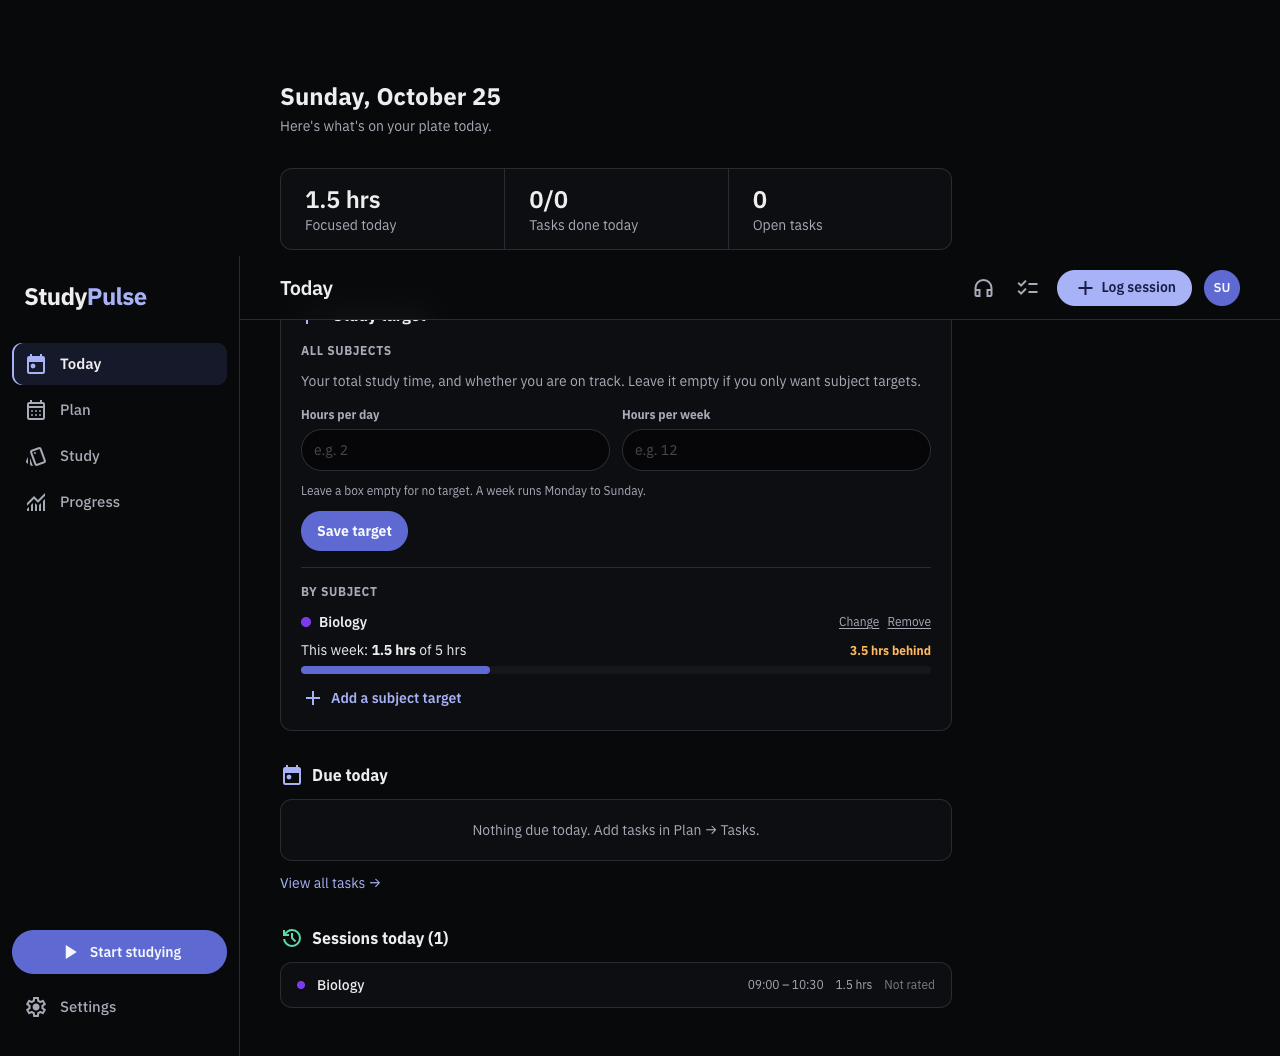
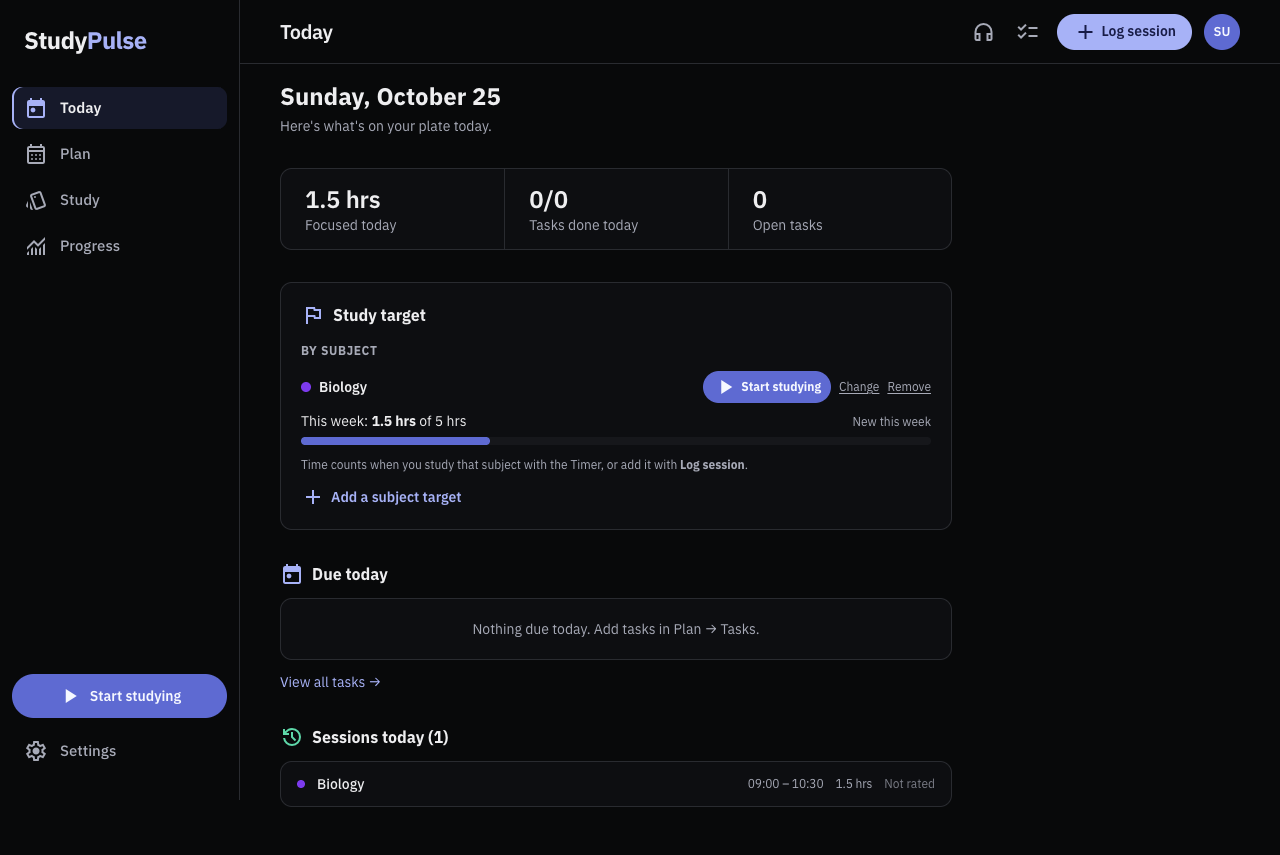
Subject targets: Start studying button; no "behind" in a target's first week
- Each subject target has a Start studying button that opens the Timer
  with that subject picked, and a line saying where the time comes from
  (Timer or Log session).
- A target remembers the day it was set (targetSince, or the subject's
  creation date). In the week it was set the card says "New this week"
  instead of "N hrs behind", which was unfair for a target set on a
  Sunday.

diff --git a/src/components/ui/StudyTarget.tsx b/src/components/ui/StudyTarget.tsx
@@ -4,7 +4,7 @@ import Link from "next/link";
 import { useStudyTargets } from "@/lib/firebase/useStudyTargets";
 import { useCollection } from "@/lib/firebase/useCollection";
 import { updateItem } from "@/lib/firebase/firestore";
-import { subjectTargets, targetProgress, type TargetProgress } from "@/lib/insights";
+import { subjectTargets, targetProgress, targetSince, type TargetProgress } from "@/lib/insights";
 import { getColor } from "@/lib/colorPalette";
 import { useNewSubject } from "@/components/ui/NewSubject";
 import { formatSmartDuration, localDateStr } from "@/lib/dateUtils";
@@ -77,8 +77,8 @@ function TargetRows({ p, compact }: { p: TargetProgress; compact?: boolean }) {
         <div className="flex flex-col gap-1.5" data-testid={compact ? undefined : "target-weekly-progress"}>
           <div className="flex items-baseline justify-between gap-2 text-sm">
             <span className="text-on-surface">This week: <b className="font-jetbrains">{formatSmartDuration(p.weekMinutes)}</b> of {formatSmartDuration(p.weekly.target)}</span>
-            <span data-testid={compact ? undefined : "target-on-track"} className={p.weekly.onTrack ? "text-secondary text-xs font-bold" : "text-tertiary text-xs font-bold"}>
-              {p.weekly.left === 0 ? "Week done" : p.weekly.onTrack ? "On track" : `${formatSmartDuration(p.weekly.expectedByToday - p.weekMinutes)} behind`}
+            <span data-testid={compact ? undefined : "target-on-track"} className={p.weekly.onTrack ? "text-secondary text-xs font-bold" : p.weekly.newThisWeek ? "text-on-surface-variant text-xs" : "text-tertiary text-xs font-bold"}>
+              {p.weekly.left === 0 ? "Week done" : p.weekly.onTrack ? "On track" : p.weekly.newThisWeek ? "New this week" : `${formatSmartDuration(p.weekly.expectedByToday - p.weekMinutes)} behind`}
             </span>
           </div>
           <Bar pct={p.weekly.pct} done={p.weekly.left === 0} />
@@ -93,7 +93,8 @@ export function TargetCard({ sessions }: { sessions: Session[] }) {
   const { daily, weekly, loaded } = useStudyTargets();
   const { items: subjects } = useCollection<Subject>("subjects");
   if (!loaded) return null;
-  const p = targetProgress(sessions, localDateStr(), daily, weekly);
+  const since = subjectTargets([], subjects, localDateStr()).map((t) => targetSince(t.subject)).sort();
+  const p = targetProgress(sessions, localDateStr(), daily, weekly, since[since.length - 1]);
   // The total only adds something when two or more subjects have a target
   const hasTarget = !!(p.daily || p.weekly) && subjectTargets([], subjects, localDateStr()).length >= 2;
 
@@ -124,7 +125,7 @@ export function SubjectTargets() {
   const rows = subjectTargets(sessions, subjects, localDateStr());
   const free = subjects.filter((s) => !rows.some((r) => r.subject.id === s.id));
   const save = (id: string) => async (d: number, w: number) => {
-    await updateItem<Subject>(uid, "subjects", id, { dailyTargetMinutes: d || undefined, weeklyTargetMinutes: w || undefined });
+    await updateItem<Subject>(uid, "subjects", id, { dailyTargetMinutes: d || undefined, weeklyTargetMinutes: w || undefined, targetSince: d || w ? localDateStr() : undefined });
     setEditing(null);
     setPick("");
   };
@@ -142,6 +143,10 @@ export function SubjectTargets() {
               <span className="font-semibold text-sm text-on-surface flex-1 truncate">{subject.name}</span>
               {editing !== subject.id && (
                 <>
+                  <Link href={`/timer?subjectId=${encodeURIComponent(subject.id)}&subjectName=${encodeURIComponent(subject.name)}`} data-testid="subject-target-start"
+                    className="inline-flex items-center gap-1 px-2.5 py-1 rounded-lg bg-primary-container text-on-primary-container text-xs font-bold hover:opacity-90">
+                    <span aria-hidden="true" className="material-symbols-outlined text-[16px]" style={{ fontVariationSettings: "'FILL' 1" }}>play_arrow</span>Start studying
+                  </Link>
                   <button onClick={() => setEditing(subject.id)} aria-label={`Change ${subject.name} target`} className="text-xs text-on-surface-variant hover:text-primary underline underline-offset-2">Change</button>
                   <button onClick={() => save(subject.id)(0, 0)} aria-label={`Remove ${subject.name} target`} data-testid="subject-target-remove" className="text-xs text-on-surface-variant hover:text-error underline underline-offset-2">Remove</button>
                 </>
@@ -153,6 +158,7 @@ export function SubjectTargets() {
           </li>
         ))}
       </ul>
+      {rows.length > 0 && <p className="text-xs text-on-surface-variant">Time counts when you study that subject with the Timer, or add it with <b>Log session</b>.</p>}
       {editing === "new" ? (
         <div data-testid="subject-target-new" className="flex flex-col gap-3 rounded-xl border border-outline-variant p-3">
           <label className="flex flex-col gap-1.5">

diff --git a/src/lib/insights.ts b/src/lib/insights.ts
@@ -28,11 +28,13 @@ export interface TargetProgress {
     /** Where you should be by the end of today if you spread the target evenly over Mon–Sun */
     expectedByToday: number;
     onTrack: boolean;
+    /** The target was set after this Monday, so the pace for this week is not fair to judge */
+    newThisWeek: boolean;
   };
 }
 
 /** Today's and this week's minutes against the targets (minutes; 0 or missing = no target). */
-export function targetProgress(sessions: Session[], today: string, dailyTarget?: number, weeklyTarget?: number): TargetProgress {
+export function targetProgress(sessions: Session[], today: string, dailyTarget?: number, weeklyTarget?: number, since?: string): TargetProgress {
   const weekStart = mondayOf(today);
   const todayMinutes = sum(sessions.filter((s) => s.date === today));
   const weekMinutes = sum(sessions.filter((s) => inRange(s, weekStart, addDays(weekStart, 6))));
@@ -49,6 +51,7 @@ export function targetProgress(sessions: Session[], today: string, dailyTarget?:
       left: Math.max(0, weeklyTarget - weekMinutes),
       expectedByToday,
       onTrack: weekMinutes >= expectedByToday,
+      newThisWeek: !!since && since > weekStart,
     };
   }
   return out;
@@ -56,12 +59,15 @@ export function targetProgress(sessions: Session[], today: string, dailyTarget?:
 
 export interface SubjectTarget extends TargetProgress { subject: Subject }
 
+/** When a subject's target was set (older subjects: when the subject was made). */
+export const targetSince = (s: Subject) => s.targetSince ?? s.createdAt;
+
 /** Progress for every subject that has its own daily or weekly target. */
 export function subjectTargets(sessions: Session[], subjects: Subject[], today: string): SubjectTarget[] {
   return subjects
     .filter((s) => (s.dailyTargetMinutes ?? 0) > 0 || (s.weeklyTargetMinutes ?? 0) > 0)
     .sort((a, b) => a.name.localeCompare(b.name))
-    .map((subject) => ({ subject, ...targetProgress(sessions.filter((x) => x.subjectId === subject.id), today, subject.dailyTargetMinutes, subject.weeklyTargetMinutes) }));
+    .map((subject) => ({ subject, ...targetProgress(sessions.filter((x) => x.subjectId === subject.id), today, subject.dailyTargetMinutes, subject.weeklyTargetMinutes, targetSince(subject)) }));
 }
 
 // ── Topics ─────────────────────────────────────────────────────────────────

diff --git a/src/lib/insights.test.ts b/src/lib/insights.test.ts
@@ -1,6 +1,6 @@
 import {
   targetProgress, minutesByTopic, averageRating, focusTrend, distractionsPerHour,
-  weeklyReview, resultsWithEffort, effortCorrelation, effortVerdict, subjectTargets,
+  weeklyReview, resultsWithEffort, effortCorrelation, effortVerdict, subjectTargets, targetProgress as tp,
 } from "./insights";
 import type { Session, Subject, TestResult } from "@/types";
 
@@ -123,5 +123,14 @@ describe("subjectTargets", () => {
     expect(t[0].daily).toEqual({ target: 60, pct: 75, left: 15 });
     expect(t[1].weekMinutes).toBe(120);
     expect(t[1].weekly?.pct).toBe(40);
+  });
+});
+
+describe("a target set during the week", () => {
+  it("is not called behind in its first week, and is judged normally after", () => {
+    // TODAY is Wednesday 2026-10-21; the week started Monday 2026-10-19.
+    expect(tp([], TODAY, undefined, 600, "2026-10-21").weekly).toMatchObject({ onTrack: false, newThisWeek: true });
+    expect(tp([], TODAY, undefined, 600, "2026-10-19").weekly?.newThisWeek).toBe(false);
+    expect(tp([], TODAY, undefined, 600).weekly?.newThisWeek).toBe(false);
   });
 });

diff --git a/e2e/subject-targets.spec.ts b/e2e/subject-targets.spec.ts
@@ -31,9 +31,9 @@ test("subject target: add with a new subject, see it on Today, Timer and Progres
   await expect(row).toContainText("1.5 hrs");
   await evidence(page, "46-subject-target");
 
-  await page.goto("/timer/");
-  await page.getByText("Select a Subject").first().click();
-  await page.getByText("Biology").last().click();
+  // "Start studying" opens the Timer with that subject picked
+  await row.getByTestId("subject-target-start").click();
+  await expect(page).toHaveURL(/\/timer\/?\?subjectId=/);
   await expect(page.getByTestId("timer-subject-target")).toContainText("1.5 hrs / 5 hrs");
 
   await page.goto("/dashboard/");

diff --git a/src/types/index.ts b/src/types/index.ts
@@ -33,6 +33,8 @@ export interface Subject {
   /** Study target for this subject, minutes (0 or missing = none) */
   dailyTargetMinutes?: number;
   weeklyTargetMinutes?: number;
+  /** "YYYY-MM-DD" the target was set (falls back to createdAt) */
+  targetSince?: string;
 }
 
 export interface Session {
